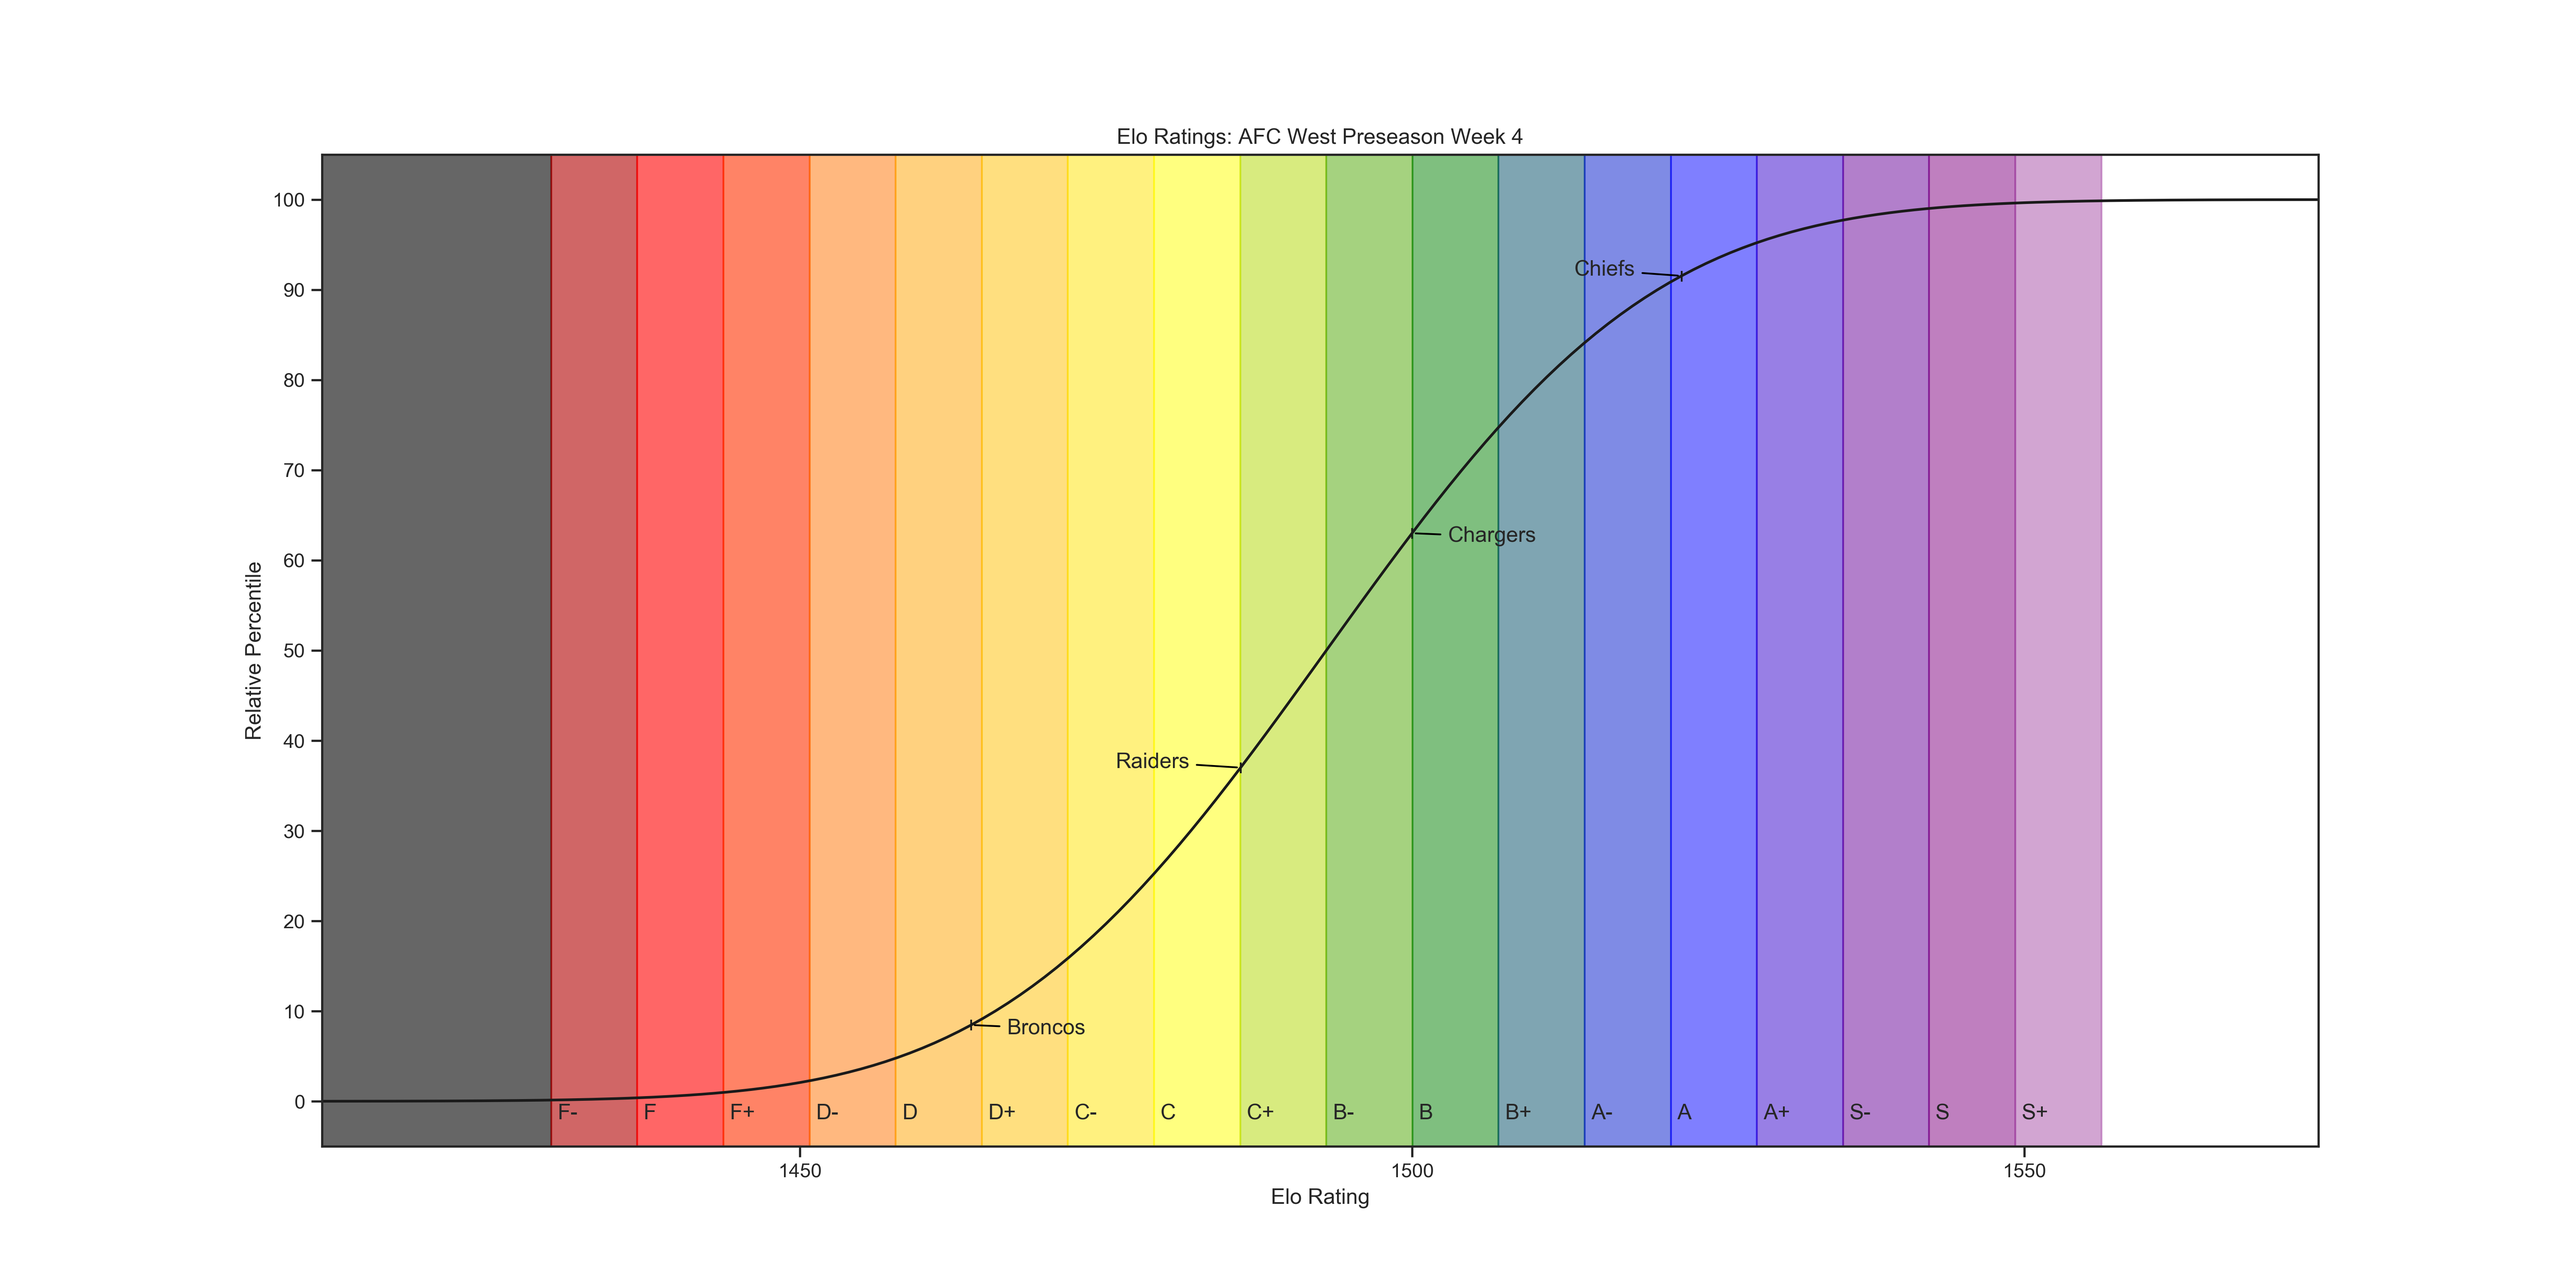
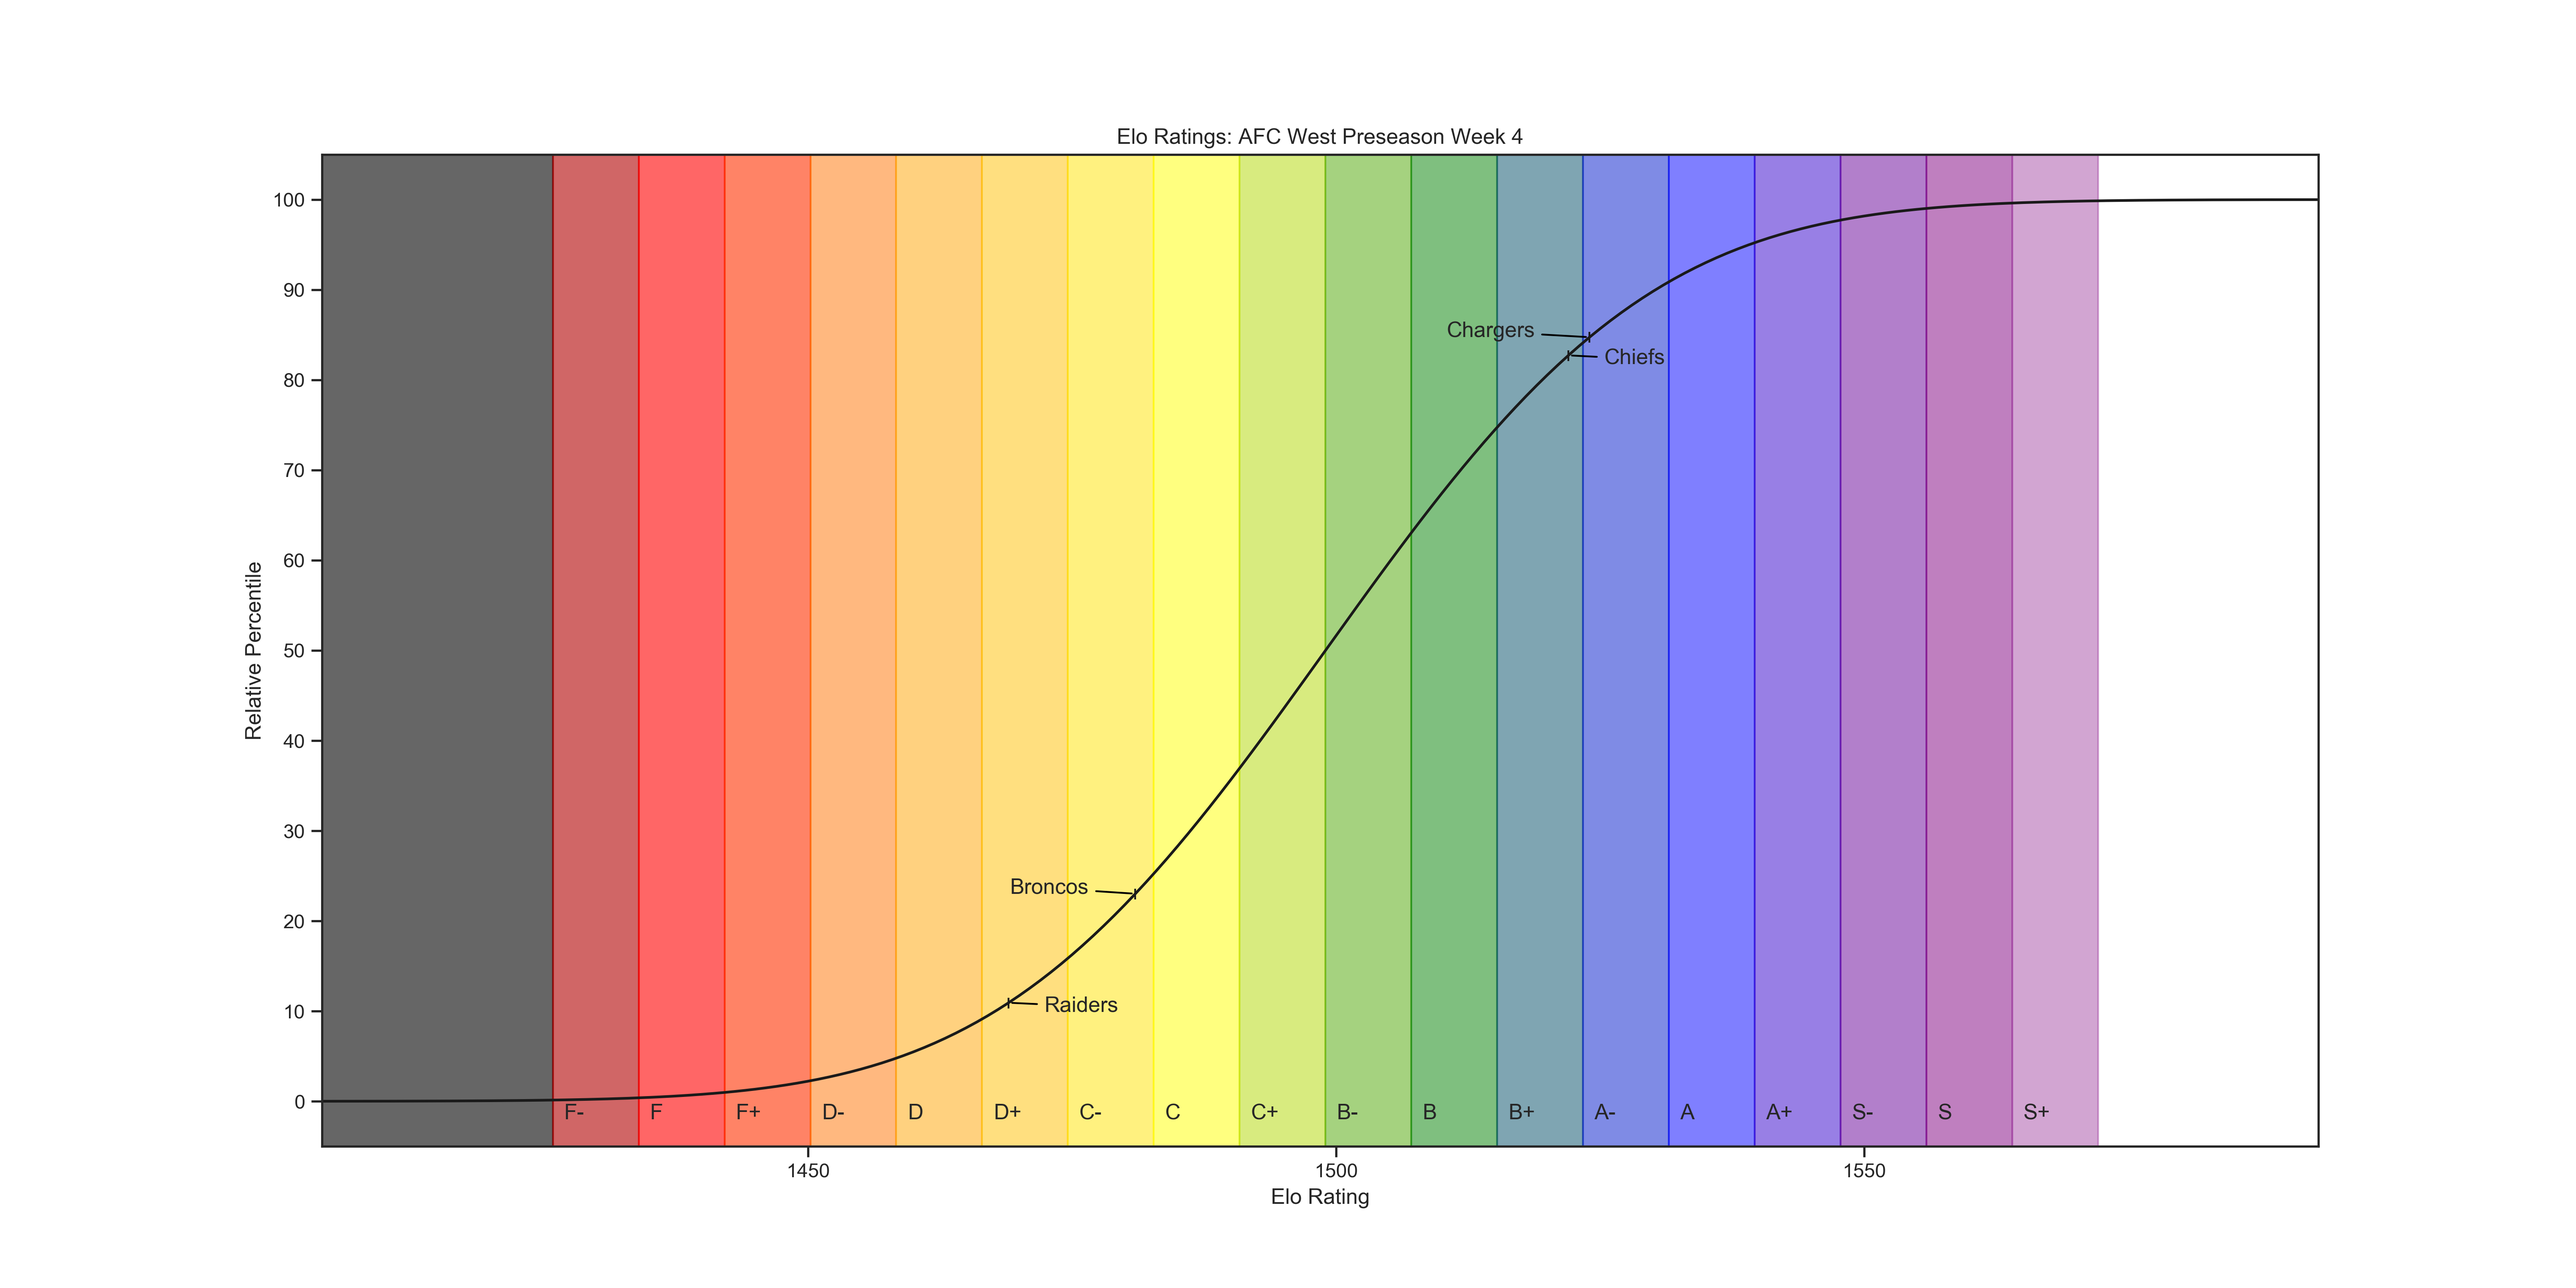
Completed preseason

diff --git a/NFLSeason2019.py b/NFLSeason2019.py
@@ -15,7 +15,7 @@ def season():
     eliminated_teams = list()
 
     # Preseason
-    if maya.now() < maya.when('3 September 2019', timezone='US/Central'):
+    if maya.now() < maya.when('30 August 2019', timezone='US/Central'):
         nfl_teams = handle_week(nfl_teams, 'Preseason Week 1', pre_week_1, eliminated_teams, '6 August 2019')
         nfl_teams = handle_week(nfl_teams, 'Preseason Week 2', pre_week_2, eliminated_teams, '13 August 2019')
         nfl_teams = handle_week(nfl_teams, 'Preseason Week 3', pre_week_3, eliminated_teams, '20 August 2019')
@@ -497,13 +497,13 @@ def pre_week_4(teams, week_end_date):
                              'Saints', 13, 2, 181, 22, 30, 1, 0, 302,
                              'Dolphins', 16, 1, 228, 22, 29, 1, 0, 345)
 
-    # teams = set_game_outcome(teams, 4,
-    #                          'Chargers', 0, 0, 0, 0, 0, 0, 0, 0,
-    #                          '49ers', 0, 0, 0, 0, 0, 0, 0, 0)
-    #
-    # teams = set_game_outcome(teams, -2.5,
-    #                          'Seahawks', 0, 0, 0, 0, 0, 0, 0, 0,
-    #                          'Raiders', 0, 0, 0, 0, 0, 0, 0, 0)
+    teams = set_game_outcome(teams, 4,
+                             '49ers', 24, 3, 122, 13, 25, 1, 2, 285,
+                             'Chargers', 27, 3, 152, 13, 22, 0, 2, 343)
+
+    teams = set_game_outcome(teams, -2.5,
+                             'Seahawks', 17, 2, 80, 5, 14, 2, 0, 214,
+                             'Raiders', 15, 1, 214, 29, 40, 0, 0, 328)
 
     teams = set_game_outcome(teams, -3,
                              'Bills', 27, 2, 162, 22, 33, 1, 0, 282,
@@ -533,9 +533,9 @@ def pre_week_4(teams, week_end_date):
                              'Jaguars', 12, 1, 102, 17, 38, 0, 0, 259,
                              'Falcons', 31, 4, 170, 15, 25, 1, 0, 425)
 
-    # teams = set_game_outcome(teams, -2,
-    #                          'Broncos', 0, 0, 0, 0, 0, 0, 0, 0,
-    #                          'Cardinals', 0, 0, 0, 0, 0, 0, 0, 0)
+    teams = set_game_outcome(teams, -2,
+                             'Broncos', 20, 2, 216, 20, 34, 1, 3, 340,
+                             'Cardinals', 7, 1, 176, 20, 33, 1, 1, 229)
 
     return teams
 

diff --git a/PlayoffHelper.py b/PlayoffHelper.py
@@ -180,7 +180,7 @@ def get_pre_week4_schedule():
     games.append(create_match_up('Packers', 'Chiefs', -2.5))
     games.append(create_match_up('Panthers', 'Steelers', 3.5))
     games.append(create_match_up('Saints', 'Dolphins', -3.5))
-    games.append(create_match_up('Chargers', '49ers', 4))
+    games.append(create_match_up('49ers', 'Chargers', -4))
     games.append(create_match_up('Seahawks', 'Raiders', -2.5))
     games.append(create_match_up('Bills', 'Vikings', -3))
     games.append(create_match_up('Patriots', 'Giants', -2.5))
